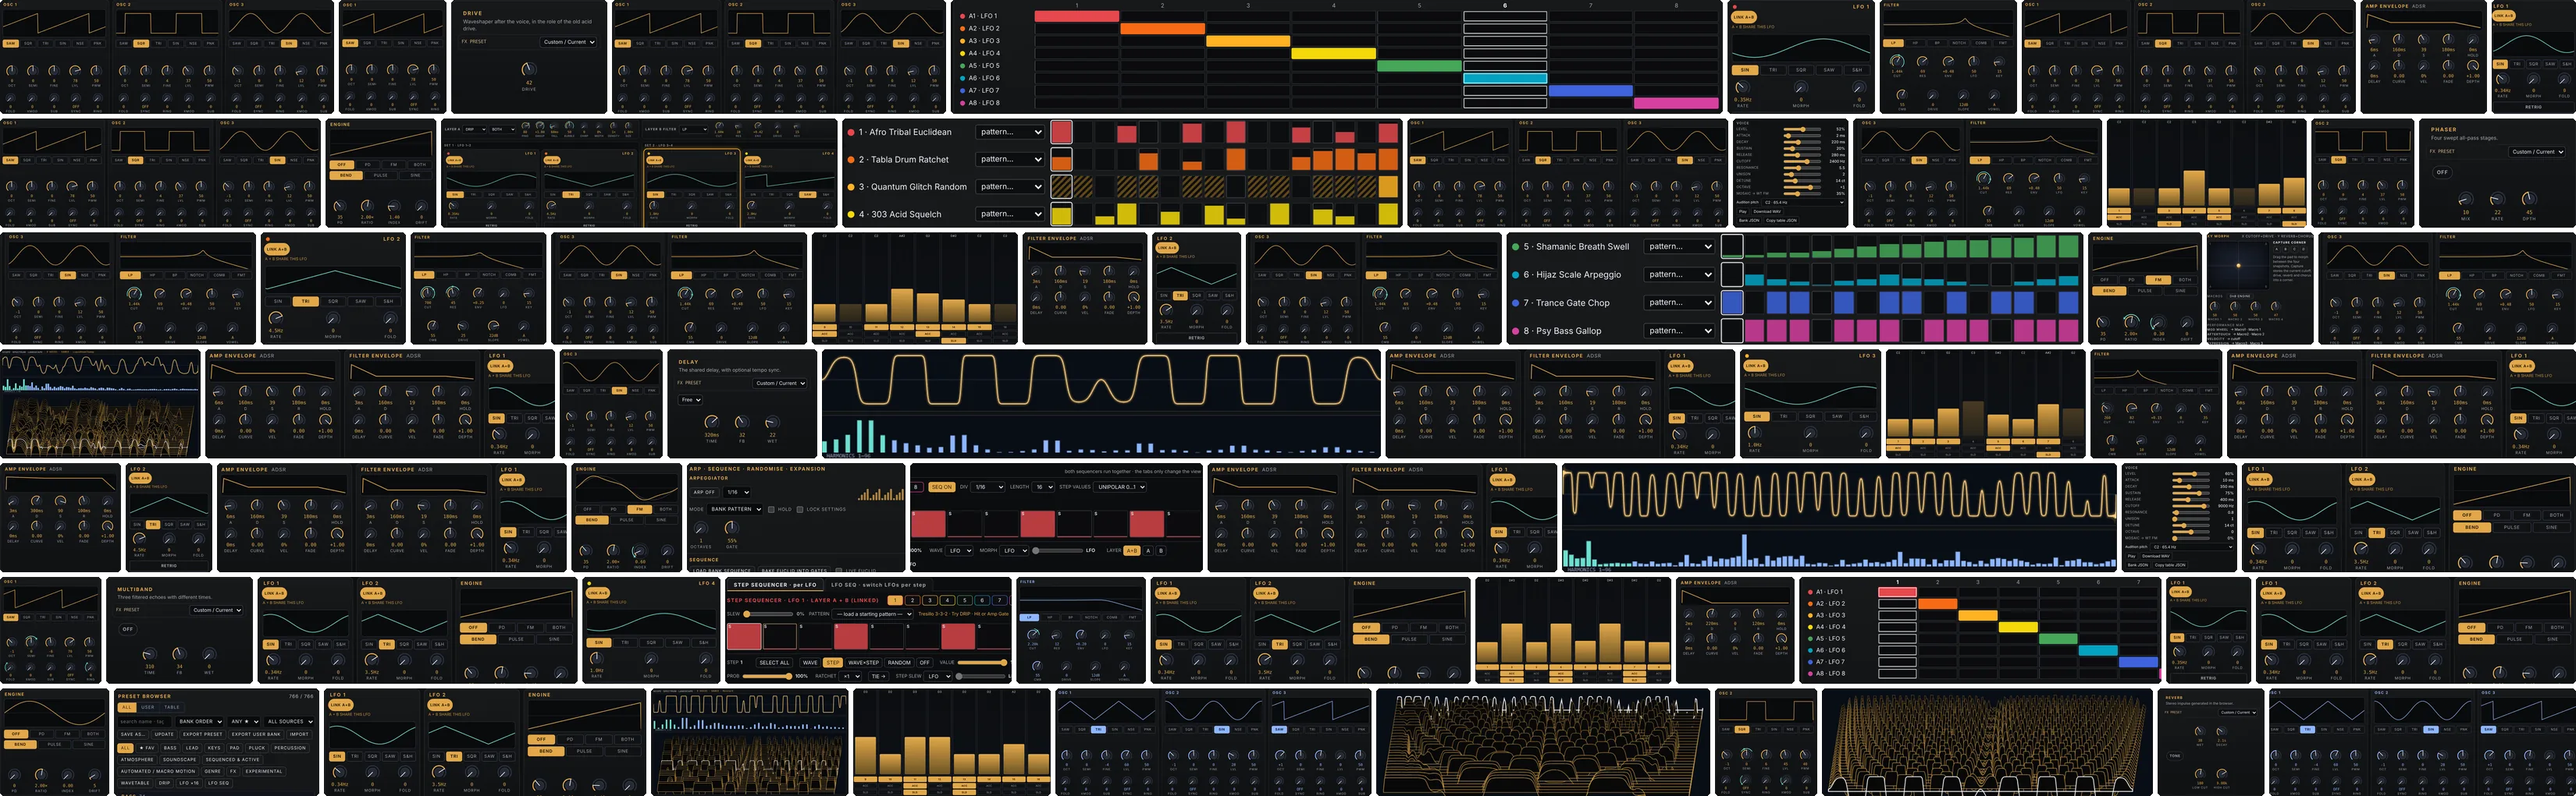
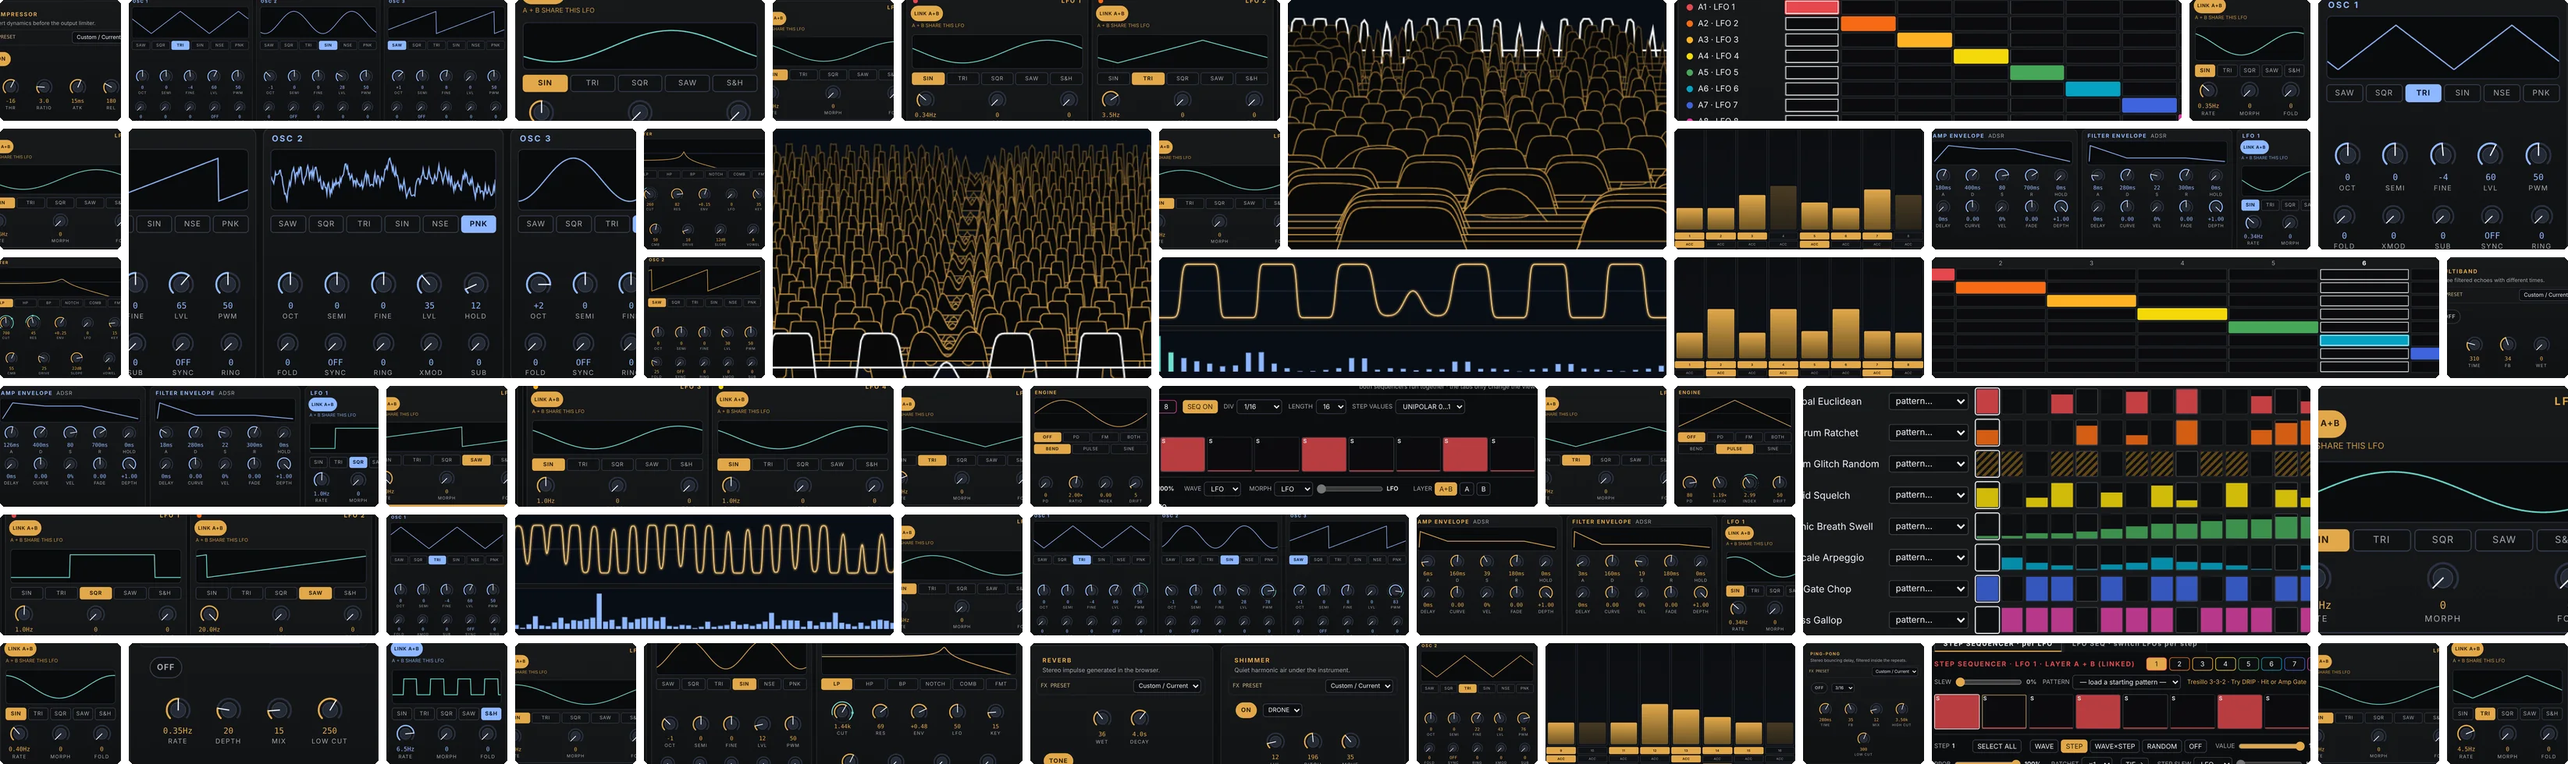
Mosaic hero collage: tessellated mixed-size tiles
Claude-Session: https://claude.ai/code/session_01K66MQfecUFADmvf8sLN59k

diff --git a/mosaic.html b/mosaic.html
@@ -458,7 +458,7 @@ article.instrument > details.instrument-details .detail-body {
 </style>
 <style id="hero-collage">
 /* Mosaic screens tiled on the right of the hero: fully visible at the right edge, fading out towards the text */
-.hero-collage{position:absolute;top:0;right:0;height:100%;aspect-ratio:3300/1021;max-width:78%;z-index:0;pointer-events:none;
+.hero-collage{position:absolute;top:0;right:0;height:100%;aspect-ratio:3290/980;max-width:78%;z-index:0;pointer-events:none;
   background:url(mosaic-collage.webp) right center/cover no-repeat;
   -webkit-mask-image:linear-gradient(to left,rgba(0,0,0,.8) 0%,rgba(0,0,0,.7) 40%,rgba(0,0,0,.38) 72%,rgba(0,0,0,.14) 90%,transparent 100%);mask-image:linear-gradient(to left,rgba(0,0,0,.8) 0%,rgba(0,0,0,.7) 40%,rgba(0,0,0,.38) 72%,rgba(0,0,0,.14) 90%,transparent 100%)}
 @media(max-width:760px){.hero-collage{display:none}}
